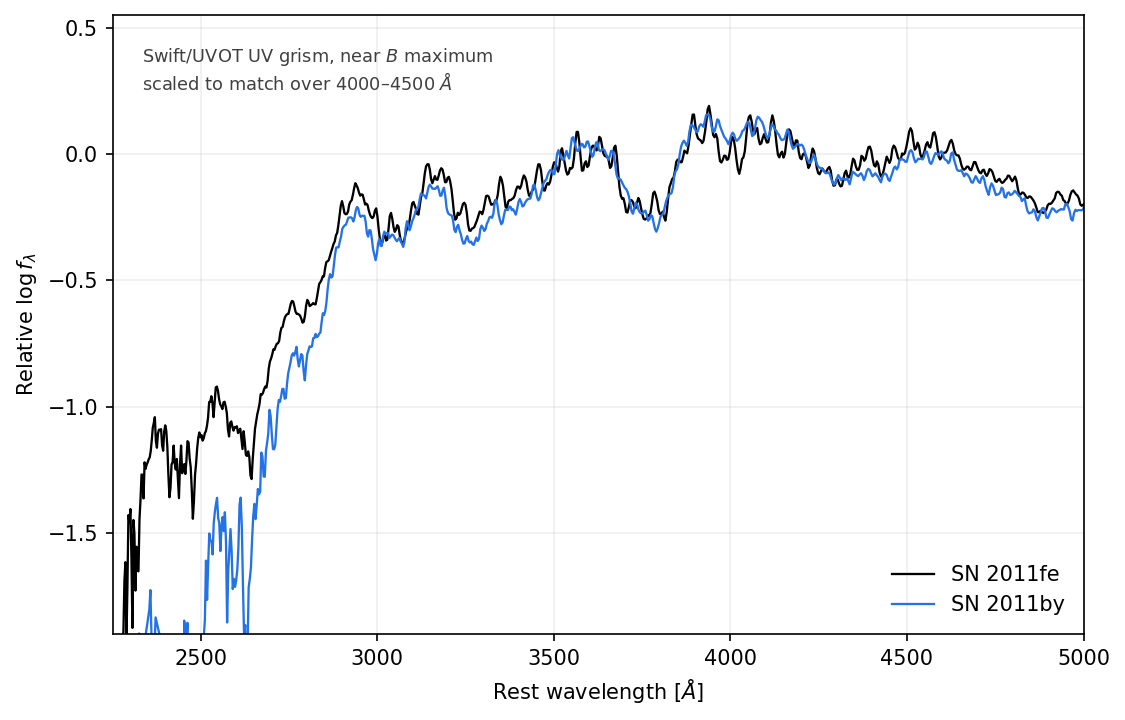
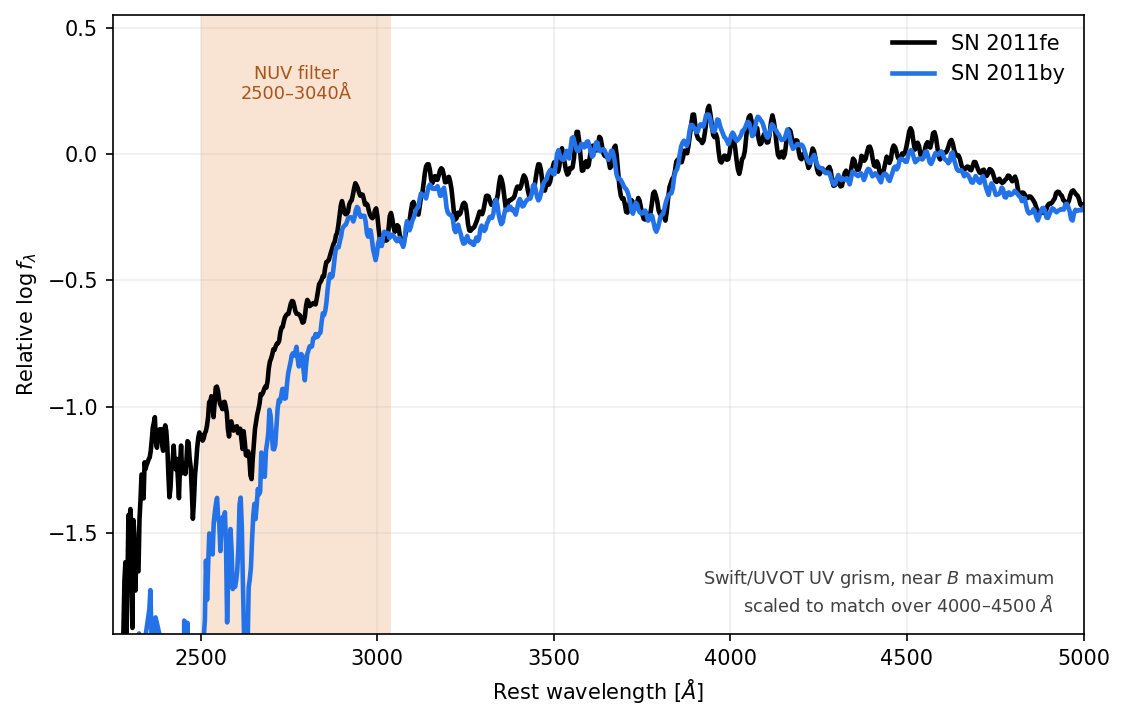
Expand ELG BAO/RSD analysis pipeline (ML redshifts, clustering estimators, MCMC/SBI); rewrite SN Ia/Strong-Lens/Lyman-alpha tone; add NUV filter band to SN Ia twin spectrum figure

diff --git a/docs/cosmology_35m_R1000_proposal.tex b/docs/cosmology_35m_R1000_proposal.tex
@@ -1127,10 +1127,11 @@ after marginalizing over galaxy bias in the ELG clustering model. The statistica
 \end{equation}
 so the wide tier sets the cosmological precision while the medium and deep tiers reduce redshift-failure and line-identification systematics.
 
-In configuration space the same information is measured from the two-dimensional galaxy correlation function,
+In configuration space the same information is measured from the two-dimensional galaxy correlation function, using the minimum-variance Landy--Szalay estimator \cite{landyszalay1993},
 \begin{equation}
   \xi(\sigma,\pi)=\frac{DD(\sigma,\pi)-2DR(\sigma,\pi)+RR(\sigma,\pi)}
   {RR(\sigma,\pi)},
+  \label{eq:xiestimator}
 \end{equation}
 where $\sigma$ is the transverse separation and $\pi$ is the line-of-sight separation. The BAO feature appears as an annular excess at $r_{\rm BAO}\simeq100$--$110\,h^{-1}$ Mpc. In real space this ring is nearly circular. In redshift space, peculiar velocities and coherent infall distort the contours, producing the anisotropy that is modeled jointly with the BAO scale. The transverse and radial BAO positions give
 \begin{equation}
@@ -1181,6 +1182,55 @@ Goal plus calibrated wedding-cake tiers & $\sim3\times10^6$ wide plus fainter ca
 \end{table}
 
 The science requirement is therefore not simply to detect many emission lines. It is to recover the BAO scale and the anisotropic RSD signal without imprinting a roll-angle, morphology, or overlap-dependent selection function. The baseline requirement is redshift purity $>98\%$ for the cosmology sample, catastrophic line-confusion rate $<1\%$, and a redshift-success model whose spatial variation is known well enough that the induced BAO-scale distance bias remains below $0.3\%$. These requirements will be verified by blinded image-level simulations and by repeated reductions of the same fields using only two of the three orientations with the third orientation held out as a validation data set.
+
+\subsection{Parameter-Estimation Pipeline: Redshifts to Cosmological Constraints}
+
+The redshift catalog and the clustering statistics defined above are not yet a cosmological measurement. Four further stages connect them to a posterior on $H_0r_d$, $\Omega_m$, $w_0$, $w_a$, and $S_8^{\rm grow}$. First, each deblended spectrum is converted into a redshift and a quality flag. Second, the redshift catalog is compressed into two-point clustering statistics in configuration and Fourier space. Third, a covariance matrix is built for those statistics. Fourth, a likelihood is constructed and sampled. This subsection defines each stage explicitly, extending the forecast of Table~\ref{tab:baoforecast} into an analysis plan. The End-to-End Validation exercise below runs this same plan on image-level mocks before it is applied to real survey data.
+
+\subsubsection{Redshift and Quality Classification}
+
+Each deblended one-dimensional spectrum from the scene-reconstruction pipeline (Section~\ref{sec:effres}) is redshifted by $\chi^2$ template fitting against a library of ELG templates spanning the H$\alpha$/[O\,III]/[O\,II] flux-ratio sequence, following the same template classification-and-redshift approach as the BOSS/eBOSS spectroscopic pipeline \cite{bolton2012}. A supervised deep-learning classifier runs in parallel, trained on labeled DESI and SDSS spectra together with the injected slitless simulations of the End-to-End validation suite below, in the spirit of QuasarNET, the convolutional network that locates line positions and classifies quasar spectra \cite{quasarnet2018}. The template fit supplies the redshift and its formal uncertainty. The classifier flags the catastrophic degeneracy that a $\chi^2$ grid search cannot resolve on its own, a single bright line mistaken for a different transition at a different redshift. It draws on the joint multi-line pattern, the morphology prior, and the redundancy across the three observed position angles already carried by the scene model of Eq.~\eqref{eq:scene}. The two outputs are combined into the redshift quality flag already defined in the science catalog (Section~\ref{sec:effres}), which sets the $>98\%$-purity cosmology sample required above.
+
+\subsubsection{Two-Point Clustering Estimators in Configuration and Fourier Space}
+
+The correlation function of Eq.~\eqref{eq:xiestimator} is measured with random catalogs that carry the survey mask, the overlap losses between the three position angles, and the redshift-dependent selection function. The same information is measured independently in Fourier space. The FKP-weighted density field
+\begin{equation}
+  F(\mathbf{r}) = w(\mathbf{r})\big[n_g(\mathbf{r})-\alpha_{\rm rand}\,n_s(\mathbf{r})\big],
+  \qquad
+  w(\mathbf{r}) = \frac{1}{1+n(\mathbf{r})P_0},
+  \label{eq:fkp}
+\end{equation}
+sets $n_g$ and $n_s$ as the galaxy and synthetic random densities and $\alpha_{\rm rand}$ as their relative normalization \cite{fkp1994}. It yields minimum-variance power-spectrum multipoles $P_0(k)$, $P_2(k)$, and $P_4(k)$ through the Yamamoto line-of-sight estimator implemented with fast Fourier transforms \cite{yamamoto2006,hand2017nbodykit}. The power-spectrum multipoles and the correlation-function wedges are fit for the same $(\alpha_\perp,\alpha_\parallel,\fsig)$ parameters. Therefore, agreement between the configuration-space and Fourier-space results is a direct internal test for residual systematics, including window-function mismodeling, redshift-failure gradients, and position-angle-dependent selection effects.
+
+\subsubsection{Covariance Matrices}\label{sec:covariance}
+
+The likelihood requires a covariance matrix for the compressed BAO/RSD parameters in each redshift bin. The baseline covariance is built from an ensemble of mock galaxy catalogs constructed on N-body simulations at the resolution and volume of Horizon Run 4 \cite{hr4}, populated with an ELG halo-occupation model tuned to the luminosity functions of Section~\ref{sec:elgdepth}, and passed through the same selection function, masks, and redshift-quality cuts as the real survey. A faster ensemble of approximate mocks, calibrated against the smaller set of full N-body realizations, supplies the larger number of realizations needed to invert a well-conditioned covariance matrix. Internal jackknife resampling of the survey footprint provides an independent, mock-free covariance estimate used to validate the mock-based one before it enters the likelihood.
+
+\subsubsection{Likelihood, MCMC, and Simulation-Based Inference}
+
+The baseline likelihood is Gaussian in the compressed parameters,
+\begin{equation}
+  -2\ln\mathcal{L} =
+  \big[\mathbf{p}_{\rm obs}-\mathbf{p}_{\rm model}(\theta)\big]^{T}
+  \mathbf{C}^{-1}
+  \big[\mathbf{p}_{\rm obs}-\mathbf{p}_{\rm model}(\theta)\big],
+  \label{eq:gausslike}
+\end{equation}
+with $\mathbf{p}=(\alpha_\perp,\alpha_\parallel,\fsig)$ per redshift bin, $\mathbf{C}$ the covariance of Section~\ref{sec:covariance}, and $\theta$ the cosmological and nuisance parameters. For the ELG-only fit the posterior is sampled with an affine-invariant ensemble MCMC sampler \cite{emcee2013}. For the joint fit that adds Planck/ACT CMB priors and the internal SN\,Ia and DSPL strong-lensing likelihoods of the companion programs above, the same posterior is sampled with the CosmoMC and Cobaya cosmological-parameter-estimation codes \cite{lewisbridle2002,torradolewis2021},
+\begin{equation}
+  \mathcal{P}(\theta\mid D) \;\propto\;
+  \mathcal{L}_{\rm ELG}(D_{\rm ELG}\mid\theta)\,
+  \mathcal{L}_{\rm SN}(D_{\rm SN}\mid\theta)\,
+  \mathcal{L}_{\rm lens}(D_{\rm lens}\mid\theta)\,
+  \mathcal{L}_{\rm CMB}(D_{\rm CMB}\mid\theta)\,
+  \Pi(\theta),
+  \label{eq:jointpost}
+\end{equation}
+recovering the joint constraint on $H_0$, $\Omega_m$, and $(w_0,w_a)$ already anticipated in the supernova program above. Where a Bayesian model comparison between flat $\Lambda$CDM and dynamic dark energy is required, the same likelihood is instead sampled with nested sampling \cite{polychord2015}, which returns the evidence directly rather than only the posterior. A joint, multi-probe nested-sampling run can require $10^6$--$10^7$ likelihood evaluations. Therefore, the nonlinear matter power spectrum entering Eq.~\eqref{eq:gausslike} is evaluated with a neural emulator trained on outputs from Boltzmann and perturbation-theory codes \cite{cosmopower2022,euclidemulator2021} rather than recomputed from scratch at every step, reducing each theory evaluation from a full nonlinear-power-spectrum calculation to a millisecond-scale forward pass.
+
+A second, likelihood-free channel cross-checks the Gaussian result. The same simulation-based inference machinery proposed for the strong-lensing hierarchical layer above trains a neural density estimator directly on the full mock $P(k,\mu)$ or $\xi(\sigma,\pi)$ realizations from the covariance ensemble \cite{cranmer2020}, learning the mapping from cosmological parameters to the clustering statistics without assuming a Gaussian likelihood or a hand-derived covariance. This channel is not required to reach the planning precision of Table~\ref{tab:baoforecast}. That forecast is scoped on the standard Gaussian pipeline above. The simulation-based channel instead lets the analysis use non-Gaussian small-scale information, for example the mildly nonlinear fingers-of-god signal, as an independent growth-rate cross-check rather than a term the Gaussian covariance must marginalize away.
+
+Before unblinding, a fixed but undisclosed offset is applied to $(\alpha_\perp,\alpha_\parallel,\fsig)$ in the catalog, following the blind-analysis practice of BOSS, eBOSS, and DESI. The offset is removed only after the pipeline, the covariance, and the likelihood have been frozen, extending the held-out-orientation validation of the observing strategy above into the cosmological analysis itself.
 
 \subsection{End-to-End Validation}
 
@@ -1264,7 +1314,7 @@ Taken together the two anchors give the program three things that a single field
 
 \subsection{Type Ia Supernovae}
 
-Type Ia supernovae (SNe Ia) are the most mature distance indicator in cosmology and the only one of the companion programs that interacts directly with the same dark-energy science driving the flagship ELG survey. $R=1000$ slitless spectroscopy is well matched to the broad spectral features of SNe Ia. The analysis can bin to $R\simeq300$--500 for classification, phase determination, dust and color estimation, and population diagnostics while retaining ample signal. The time-domain program should use repeated fields, not isolated single-object follow-up. The \fovsmall\ field is acceptable for a deep cadence field. The \fovlarge\ field enables multiple active supernovae per pointing and improves host-galaxy template efficiency. Beyond classification and host-redshift control, this section argues that the mission has a distinctive and underexploited capability. At the redshifts where it operates, its $0.36$--$3.0\,\mu$m band captures the \emph{rest-frame near-ultraviolet} of SNe Ia, where the dominant intrinsic-luminosity systematic of the distance ladder is encoded.
+Type Ia supernovae (SNe Ia) are the most mature distance indicator in cosmology and the only one of the companion programs that interacts directly with the same dark-energy science driving the flagship ELG survey. $R=1000$ slitless spectroscopy is well matched to the broad spectral features of SNe Ia. The analysis can bin to $R\simeq300$--500 for classification, phase determination, dust and color estimation, and population diagnostics while retaining ample signal. The time-domain program should use repeated fields, not isolated single-object follow-up. The \fovsmall\ field is acceptable for a deep cadence field. The \fovlarge\ field enables multiple active supernovae per pointing and improves host-galaxy template efficiency. Beyond classification and host-redshift control, the mission has an additional capability. At the redshifts where it operates, its $0.36$--$3.0\,\mu$m band captures the \emph{rest-frame near-ultraviolet} of SNe Ia, where the dominant intrinsic-luminosity systematic of the distance ladder is encoded.
 
 \subsubsection{Standardizable Candles and the Systematic Floor}
 
@@ -1290,7 +1340,7 @@ The cleanest demonstration comes from ``optical twins'', which are SN Ia pairs w
 \begin{figure}[tp]
 \centering
 \includegraphics[width=0.62\textwidth]{snia_uvtwins.png}
-\caption{Observed rest-frame UV--optical spectra of the optical twins SN\,2011fe (black) and SN\,2011by (blue) from the flux-calibrated Swift/UVOT UV-grism observations taken within half a day of $B$ maximum for each event, retrieved from the Open Supernova Catalog archive \cite{guillochon2017}, deredshifted and scaled to match over $4000$--$4500$\,\AA. The same instrument at the same phase compares the two directly. The optical region is nearly identical while the flux diverges strongly below $\sim3000$\,\AA, the near-ultraviolet metallicity signature of Foley \& Kirshner \cite{foleykirshner2013} predicted by the synthetic spectra of Lentz et~al.\ \cite{lentz2000}. The optical twin condition removes the light-curve-shape and color degrees of freedom, isolating an intrinsic-luminosity difference that is visible \emph{only} in the rest-frame NUV \cite{graham2015}.}
+\caption{Observed rest-frame UV--optical spectra of the optical twins SN\,2011fe (black) and SN\,2011by (blue) from the flux-calibrated Swift/UVOT UV-grism observations taken within half a day of $B$ maximum for each event, retrieved from the Open Supernova Catalog archive \cite{guillochon2017}, deredshifted and scaled to match over $4000$--$4500$\,\AA. The same instrument at the same phase compares the two directly. The shaded band marks the proposed rest-frame NUV filter ($2500$--$3040$\,\AA\ around the $2770$\,\AA\ diagnostic wavelength of Figure~\ref{fig:snuvlimit}). The optical region is nearly identical while the flux diverges strongly across that band, the near-ultraviolet metallicity signature of Foley \& Kirshner \cite{foleykirshner2013} predicted by the synthetic spectra of Lentz et~al.\ \cite{lentz2000}. The optical twin condition removes the light-curve-shape and color degrees of freedom, isolating an intrinsic-luminosity difference that is visible \emph{only} in the rest-frame NUV \cite{graham2015}.}
 \label{fig:uvtwins}
 \end{figure}
 
@@ -1335,12 +1385,12 @@ The iron-group diagnostic normally requires a dedicated space-ultraviolet facili
 \label{fig:nuvband}
 \end{figure}
 
-This diagnostic is comfortably within reach of the baseline spectrograph and is in fact \emph{not} resolution-limited. SN Ia features are intrinsically broad. Photospheric-phase P\,Cygni lines have velocity widths of $\sim$$10^4$\,\kms, equivalent to an effective resolution of only $R\sim c/v\sim30$. The rest-frame NUV iron-group signature is a still broader pseudo-continuum suppression rather than a set of narrow lines. The native $R=1000$ therefore over-resolves the relevant structure by more than an order of magnitude. The analysis can bin down to $R\simeq100$--300 to accumulate signal-to-noise without erasing any diagnostic information. The limiting factor for $\Delta\mathrm{NUV}$ and $\theta_{\rm Fe}$ is blue-end signal-to-noise at the redshifted iron-blanketing wavelengths, not spectral resolution. The measurement is therefore feasible with the as-designed instrument and is governed by the same exposure-time reach shown in Figure~\ref{fig:snreach}. A single multi-roll slitless spectrum binned to $R\simeq300$--500 therefore records both the optical light-curve parameters and the rest-frame NUV iron-group color in one observation, enabling a subclass-aware standardization,
+This diagnostic is within reach of the baseline spectrograph and is \emph{not} resolution-limited. SN Ia features are intrinsically broad. Photospheric-phase P\,Cygni lines have velocity widths of $\sim$$10^4$\,\kms, equivalent to an effective resolution of only $R\sim c/v\sim30$. The rest-frame NUV iron-group signature is a still broader pseudo-continuum suppression rather than a set of narrow lines. The native $R=1000$ therefore over-resolves the relevant structure by more than an order of magnitude. The analysis can bin down to $R\simeq100$--300 to accumulate signal-to-noise without erasing any diagnostic information. The limiting factor for $\Delta\mathrm{NUV}$ and $\theta_{\rm Fe}$ is blue-end signal-to-noise at the redshifted iron-blanketing wavelengths, not spectral resolution. The measurement is therefore feasible with the as-designed instrument and is governed by the same exposure-time reach shown in Figure~\ref{fig:snreach}. A single multi-roll slitless spectrum binned to $R\simeq300$--500 therefore records both the optical light-curve parameters and the rest-frame NUV iron-group color in one observation, enabling a subclass-aware standardization,
 \begin{equation}
 M_B = M_0 + \alpha\,(\Delta m_{15}-1.1) + \beta\,(B-V) + \gamma\,\Delta\mathrm{NUV} + \delta\,\theta_{\rm Fe},
 \label{eq:nuvstd}
 \end{equation}
-where $\Delta\mathrm{NUV}$ is the rest-frame NUV color excess and $\theta_{\rm Fe}$ parameterizes the iron-group blanketing inferred from the spectrum. Adding these terms targets a reduction of the Hubble residual scatter from $\sigma\simeq0.12$\,mag toward $\sigma\lesssim0.08$\,mag, an $\sim30\%$ gain in per-object distance precision. More importantly, it lets the program test directly whether progenitor-metallicity evolution imprints a redshift-dependent standardization bias. Because the same explosion physics that drives the NUV divergence also sets the host-mass step, the spectroscopic $\theta_{\rm Fe}$ offers a physical replacement for the purely empirical host corrections used today.
+where $\Delta\mathrm{NUV}$ is the rest-frame NUV color excess and $\theta_{\rm Fe}$ parameterizes the iron-group blanketing inferred from the spectrum. Adding these terms targets a reduction of the Hubble residual scatter from $\sigma\simeq0.12$\,mag toward $\sigma\lesssim0.08$\,mag, an $\sim30\%$ gain in per-object distance precision. It also lets the program test directly whether progenitor-metallicity evolution imprints a redshift-dependent standardization bias. Because the same explosion physics that drives the NUV divergence also sets the host-mass step, the spectroscopic $\theta_{\rm Fe}$ offers a physical replacement for the purely empirical host corrections used today.
 
 \subsubsection{Observing Strategy and Survey Reach}
 
@@ -1443,13 +1493,13 @@ The second is the dark-energy equation of state. Unrecognized astrophysical syst
 \label{fig:sniacosmo}
 \end{figure}
 
-In summary, the SN Ia program is more than a classification-and-redshift service. By reaching the rest-frame NUV of $0.5\lesssim z\lesssim1.5$ supernovae it can diagnose the iron-group physics that sets the dominant intrinsic-luminosity systematic, convert the empirical host-mass step into a physical correction, and feed a subclass-homogeneous high-redshift distance set into the same dark-energy analysis as the flagship BAO/RSD survey.
+The SN Ia program therefore extends beyond classification and redshift service. By reaching the rest-frame NUV of $0.5\lesssim z\lesssim1.5$ supernovae it can diagnose the iron-group physics that sets the dominant intrinsic-luminosity systematic, convert the empirical host-mass step into a physical correction, and feed a subclass-homogeneous high-redshift distance set into the same dark-energy analysis as the flagship BAO/RSD survey.
 
 \subsection{Strong-Lens Cosmography}
 
-Strong gravitational lensing is a purely geometric cosmological probe. The deflection of light by a foreground mass depends on ratios of angular-diameter distances to the lens and the source. Hence, a measured lens configuration constrains the expansion history independently of, and with different systematics from, the BAO and supernova programs above. This makes it an attractive cross-check on $H_0$ and the dark-energy equation of state. The challenge is that the cosmological signal is entangled with the lens mass distribution through three well-known systematics. First, the \emph{mass-sheet degeneracy} (MSD), under which a rescaling of the convergence plus a uniform sheet leaves all observables except the absolute time delay unchanged. Second, the \emph{mass--anisotropy degeneracy} in the stellar dynamics used to break the MSD. Third, the \emph{external convergence} $\kappa_{\rm ext}$ from mass along the line of sight. A credible program is therefore defined by how well it controls these three terms, not by how many lenses it collects.
+Strong gravitational lensing is a purely geometric cosmological probe. The deflection of light by a foreground mass depends on ratios of angular-diameter distances to the lens and the source. Hence, a measured lens configuration constrains the expansion history independently of, and with different systematics from, the BAO and supernova programs above. It therefore provides an independent check on $H_0$ and the dark-energy equation of state. The cosmological signal is entangled with the lens mass distribution through three well-known systematics. First, the \emph{mass-sheet degeneracy} (MSD), under which a rescaling of the convergence plus a uniform sheet leaves all observables except the absolute time delay unchanged. Second, the \emph{mass--anisotropy degeneracy} in the stellar dynamics used to break the MSD. Third, the \emph{external convergence} $\kappa_{\rm ext}$ from mass along the line of sight. A credible program is therefore defined by how well it controls these three terms, not by how many lenses it collects.
 
-This mission is well suited to that task. Importantly, it does not rely primarily on its spectrograph. The slitless design carries diffraction-limited, photometrically stable direct imaging ($\sim$0.1\,arcsec at optical wavelengths) that is the natural data product for lens finding and for reconstructing Einstein rings and arcs. Spectroscopy is a powerful \emph{complement}. It supplies lens and source redshifts, deflector velocity dispersions, and line-of-sight galaxy redshifts, but it is not a prerequisite for the imaging-based core of the program. The strategy below therefore treats imaging $+$ machine learning as the engine with spectroscopy and (where useful) weak-lensing shapes as degeneracy-breaking add-ons. The science is timely because the next-generation imaging surveys will deliver lenses in unprecedented numbers. These include of order $1.7\times10^5$ discoverable galaxy--galaxy lenses in \textit{Euclid} and $1.2\times10^5$ in Rubin/LSST \cite{collett2015}, $\sim$$1.7\times10^4$ in the \textit{Roman} High-Latitude Survey \cite{weiner2020}, with \textit{Euclid} already publishing hundreds of space-based candidates over its first 63\,\degti\ and projecting $>10^5$ for the full survey \cite{walmsley2025}. Meanwhile, redshift confirmation and per-lens mass modeling remain the rate-limiting steps \cite{shu2025}.
+This mission does not rely primarily on its spectrograph for that task. The slitless design carries diffraction-limited, photometrically stable direct imaging ($\sim$0.1\,arcsec at optical wavelengths) that is the natural data product for lens finding and for reconstructing Einstein rings and arcs. Spectroscopy is a \emph{complement}. It supplies lens and source redshifts, deflector velocity dispersions, and line-of-sight galaxy redshifts, but it is not a prerequisite for the imaging-based core of the program. The strategy below therefore treats imaging $+$ machine learning as the engine with spectroscopy and (where useful) weak-lensing shapes as degeneracy-breaking add-ons. The next-generation imaging surveys will soon deliver lenses in large numbers. These include of order $1.7\times10^5$ discoverable galaxy--galaxy lenses in \textit{Euclid} and $1.2\times10^5$ in Rubin/LSST \cite{collett2015}, $\sim$$1.7\times10^4$ in the \textit{Roman} High-Latitude Survey \cite{weiner2020}, with \textit{Euclid} already publishing hundreds of space-based candidates over its first 63\,\degti\ and projecting $>10^5$ for the full survey \cite{walmsley2025}. Meanwhile, redshift confirmation and per-lens mass modeling remain the rate-limiting steps \cite{shu2025}.
 
 \subsubsection{Primary Probe: Double-Source-Plane Lenses for \texorpdfstring{$w$}{w} and \texorpdfstring{$\Omega_m$}{Omega_m}}
 
@@ -1460,7 +1510,7 @@ The cleanest strong-lensing cosmology available to a spectroscopic-imaging missi
 \end{equation}
 where $D_{s}$ and $D_{ds}$ are angular-diameter distances from observer and from deflector to each source. Because $\beta$ is a ratio of distances at a common lens, it is essentially \emph{independent of $H_0$} and of the absolute mass normalization and depends only on $\Omega_m$ and the dark-energy parameters. The archetype, the ``Jackpot'' lens SDSS\,J0946$+$1006, yields $\beta^{-1}=1.404\pm0.016$ and, combined with CMB priors in a flat $w$CDM model, $w=-1.17\pm0.20$, a $\sim$30\% improvement over the CMB alone \cite{collettauger2014}. Forecasts show that a handful of well-modeled DSPLs reach $\sigma(w)\approx0.15$ \cite{collett2012}. Recent AGEL-survey systems have begun to realize this, improving the $w$ precision by $\sim$30--40\% over CMB-only when combined \cite{sahu2025,bowden2025}.
 
-DSPLs are rare and were historically found by accident, because identifying \emph{two} source redshifts behind one lens is hard from imaging alone. This is precisely where the mission's combination of capabilities is decisive. The stable imaging resolves the two concentric ring/arc systems and measures their radii, while the slitless spectroscopy delivers the two source redshifts and the lens redshift in the same observation, turning serendipitous discoveries into a systematically assembled DSPL cosmology sample. We adopt DSPL distance-ratio cosmography as the primary strong-lensing science goal because its dominant requirement, multiple secure source-plane redshifts, is exactly the measurement a wide-field spectroscopic survey makes naturally and because the $\beta$ ratio sidesteps both the $H_0$ calibration and much of the MSD that complicate time-delay work.
+DSPLs are rare and were historically found by accident, because identifying \emph{two} source redshifts behind one lens is hard from imaging alone. This is where the mission's combination of imaging and spectroscopy matters. The stable imaging resolves the two concentric ring/arc systems and measures their radii, while the slitless spectroscopy delivers the two source redshifts and the lens redshift in the same observation, turning serendipitous discoveries into a systematically assembled DSPL cosmology sample. We adopt DSPL distance-ratio cosmography as the primary strong-lensing science goal because its dominant requirement, multiple secure source-plane redshifts, is exactly the measurement a wide-field spectroscopic survey makes naturally and because the $\beta$ ratio sidesteps both the $H_0$ calibration and much of the MSD that complicate time-delay work.
 
 \begin{figure}[tp]
 \centering
@@ -1508,15 +1558,15 @@ DSPLs are rare and were historically found by accident, because identifying \emp
 
 \subsubsection{Mass-Density Profiles and the Degeneracy-Breaking Program}
 
-The total mass-density profile of massive early-type lens galaxies is remarkably close to isothermal, $\rho\propto r^{-\gamma'}$ with $\gamma'\simeq2$. Measurements give $\langle\gamma'\rangle=2.085^{+0.025}_{-0.018}$ from SLACS dynamics \cite{koopmans2009}, $2.078\pm0.027$ with intrinsic scatter $0.16$ from the SLACS lensing$+$dynamics sample \cite{auger2010}, and $2.075^{+0.023}_{-0.024}$ from extended-source modeling \cite{etherington2023}. The slope evolves. At fixed mass and size, $\partial\gamma'/\partial z=-0.31\pm0.10$ \cite{sonnenfeld2013}. Measuring $\gamma'(z,M_\ast)$ over a large, homogeneously selected sample is valuable in two ways. As astrophysics it traces the assembly history of the most massive galaxies through the competition between dissipative growth and dry merging. As cosmology it supplies the very priors, the density slope and the stellar orbital anisotropy, that time-delay cosmography needs to break the MSD. The recent shift in that field toward hierarchical inference of the density profile across the lens population is exactly a demand for the measurement this mission can mass-produce \cite{birrer2020}.
+The total mass-density profile of massive early-type lens galaxies is close to isothermal, $\rho\propto r^{-\gamma'}$ with $\gamma'\simeq2$. Measurements give $\langle\gamma'\rangle=2.085^{+0.025}_{-0.018}$ from SLACS dynamics \cite{koopmans2009}, $2.078\pm0.027$ with intrinsic scatter $0.16$ from the SLACS lensing$+$dynamics sample \cite{auger2010}, and $2.075^{+0.023}_{-0.024}$ from extended-source modeling \cite{etherington2023}. The slope evolves. At fixed mass and size, $\partial\gamma'/\partial z=-0.31\pm0.10$ \cite{sonnenfeld2013}. Measuring $\gamma'(z,M_\ast)$ over a large, homogeneously selected sample is valuable in two ways. As astrophysics it traces the assembly history of the most massive galaxies through the competition between dissipative growth and dry merging. As cosmology it supplies the very priors, the density slope and the stellar orbital anisotropy, that time-delay cosmography needs to break the MSD. The recent shift in that field toward hierarchical inference of the density profile across the lens population is exactly a demand for the measurement this mission can mass-produce \cite{birrer2020}.
 
 The method combines two mission data products. The diffraction-limited imaging constrains the Einstein radius $\theta_E$ (hence the projected mass inside it) and, through full extended-source reconstruction of the ring, the radial slope $\gamma'$. The slitless spectroscopy adds the deflector stellar velocity dispersion $\sigma$. Here the native $R=1000$ ($\sim$300 \kms) resolution is a genuine limitation for low-dispersion systems, but lens-selected deflectors are massive ellipticals with $\sigma\gtrsim250$ \kms, for which an \emph{aperture-integrated} dispersion is recoverable from the slitless spectrum with careful template fitting and morphology deconvolution across the three roll angles. We therefore scope the dynamical measurement as integrated (not spatially resolved) $\sigma$, used statistically over the population rather than for per-lens $H_0$. Spatially resolved kinematics, where required for individual flagship systems, are deferred to external IFU facilities \cite{tdcosmo2025}.
 
 \subsubsection{Supporting Role in Time-Delay Cosmography}
 
-Time-delay cosmography measures $H_0$ directly from the relative arrival times of multiply imaged variable sources. The H0LiCOW program reached $H_0=73.3^{+1.7}_{-1.8}$ \kms\,Mpc$^{-1}$ (2.4\%) from six lensed quasars under power-law/composite mass models \cite{wong2020}. Relaxing the mass model to admit full mass-sheet freedom inflates the uncertainty to $\sim$8\% \cite{birrer2020}. The most recent TDCOSMO analysis, incorporating integrated and spatially resolved stellar kinematics, gives $H_0=71.6^{+3.9}_{-3.3}$ \kms\,Mpc$^{-1}$ \cite{birrer2025}. This mission will not build its own competitive time-delay $H_0$ measurement, which requires dedicated monitoring cadence and resolved kinematics, but it is a powerful \emph{force multiplier} for the lensed quasars and supernovae that Rubin and \textit{Roman} will discover.
+Time-delay cosmography measures $H_0$ directly from the relative arrival times of multiply imaged variable sources. The H0LiCOW program reached $H_0=73.3^{+1.7}_{-1.8}$ \kms\,Mpc$^{-1}$ (2.4\%) from six lensed quasars under power-law/composite mass models \cite{wong2020}. Relaxing the mass model to admit full mass-sheet freedom inflates the uncertainty to $\sim$8\% \cite{birrer2020}. The most recent TDCOSMO analysis, incorporating integrated and spatially resolved stellar kinematics, gives $H_0=71.6^{+3.9}_{-3.3}$ \kms\,Mpc$^{-1}$ \cite{birrer2025}. This mission will not build its own competitive time-delay $H_0$ measurement, which requires dedicated monitoring cadence and resolved kinematics, but it is a \emph{force multiplier} for the lensed quasars and supernovae that Rubin and \textit{Roman} will discover.
 
-Two contributions are decisive. First, spectroscopy delivers the lens and source redshifts and the deflector dispersion that every time-delay analysis requires. Second, and less appreciated, the wide field captures the redshifts of the faint galaxies along each sight line, which set the external convergence $\kappa_{\rm ext}$. Since $H_0\propto(1-\kappa_{\rm ext})$, this term is a leading systematic. It reached $\kappa_{\rm ext}=0.10^{+0.08}_{-0.05}$ and dominated the error budget for B1608$+$656 \cite{suyu2010} and is typically a few percent with a $\sim$2.5\% uncertainty controlled by weighted galaxy counts and spectroscopy of the field \cite{rusu2017,wells2023}. Dense, spatially complete redshifts of line-of-sight galaxies, a natural by-product of the flagship slitless survey overlapping time-delay fields, directly tighten $\kappa_{\rm ext}$ and therefore $H_0$ \cite{greene2013}.
+Two contributions matter most. First, spectroscopy delivers the lens and source redshifts and the deflector dispersion that every time-delay analysis requires. Second, and less appreciated, the wide field captures the redshifts of the faint galaxies along each sight line, which set the external convergence $\kappa_{\rm ext}$. Since $H_0\propto(1-\kappa_{\rm ext})$, this term is a leading systematic. It reached $\kappa_{\rm ext}=0.10^{+0.08}_{-0.05}$ and dominated the error budget for B1608$+$656 \cite{suyu2010} and is typically a few percent with a $\sim$2.5\% uncertainty controlled by weighted galaxy counts and spectroscopy of the field \cite{rusu2017,wells2023}. Dense, spatially complete redshifts of line-of-sight galaxies, a natural by-product of the flagship slitless survey overlapping time-delay fields, directly tighten $\kappa_{\rm ext}$ and therefore $H_0$ \cite{greene2013}.
 
 \subsubsection{An AI Pipeline for Finding and Modeling at Scale}
 
@@ -1566,9 +1616,9 @@ Cosmic-shear weak lensing is not a primary product of this mission, because comp
 
 In scope, the strong-lensing program is a Years~2--5 effort that rides on the flagship survey's imaging and on fields shared with external time-delay campaigns, supplemented by targeted spectroscopy ($3\times2$--$3\times4$ hr in three roll angles) of the highest-value deflectors and all DSPL candidates. The deliverables are a spectroscopically confirmed lens and DSPL catalog with machine-learning mass models, a population measurement of $\gamma'(z,M_\ast)$, $\kappa_{\rm ext}$ and redshift support for external time-delay $H_0$ work, and a DSPL-based constraint on $(\Omega_m,w)$ that is independent of the mission's BAO and supernova results. This is a substantive, systematics-aware cosmology program built on the mission's real strengths, namely stable imaging, wide-field multiplexed spectroscopy, and automated inference, rather than a single-object $H_0$ claim.
 
-\subsection{Lyman-\texorpdfstring{$\alpha$}{alpha} Forest}
+\subsection{Lyman-\texorpdfstring{$\alpha$}{alpha} Forest and Absorption Systems}
 
-The Lyman-$\alpha$ forest is the dense set of H\,\textsc{i} absorption lines imprinted on the spectrum of a background source by neutral hydrogen in the intergalactic medium (IGM) along the line of sight. Each absorber records the density, temperature, and peculiar velocity of diffuse gas at the redshift where Ly$\alpha$ ($\lambda_0=1215.67$\,\AA) comes into resonance. The forest is therefore a continuous tracer of large-scale structure across $2\lesssim z\lesssim4$, where few other tracers exist, and it underpins several distinct cosmological measurements. This section first sets out what the forest delivers in principle. It then computes quantitatively what the proposed $R=1000$ slitless spectrograph can actually measure and finally defines a program matched to that capability.
+The Lyman-$\alpha$ forest is the dense set of H\,\textsc{i} absorption lines imprinted on the spectrum of a background source by neutral hydrogen in the intergalactic medium (IGM) along the line of sight. Each absorber records the density, temperature, and peculiar velocity of diffuse gas at the redshift where Ly$\alpha$ ($\lambda_0=1215.67$\,\AA) comes into resonance. The forest is therefore a continuous tracer of large-scale structure across $2\lesssim z\lesssim4$, where few other tracers exist, and it underpins several distinct cosmological measurements. At higher column density the same absorbers steepen into Lyman-limit systems and damped Ly$\alpha$ absorbers, discrete tracers of circumgalactic and interstellar gas that this section surveys alongside the diffuse forest. We first set out what the forest delivers in principle, then quantify what the proposed $R=1000$ slitless spectrograph can measure, and define a program matched to that capability.
 
 \subsubsection{The Forest as a Cosmological Probe}
 
@@ -1578,7 +1628,7 @@ The second measurement is the thermal history of the IGM, encoded in the tempera
 
 \subsubsection{Spectral Resolution and Detectable H\,I Columns}
 
-The interpretation of the forest depends critically on spectral resolution. A slitless mission must be honest about its limits here. Individual forest absorbers have Doppler parameters of order $b\simeq20$--$30$\,km\,s$^{-1}$, set by the IGM temperature and turbulence \cite{rudie2012,rudie2013}. Resolving such a line requires a velocity resolution well below its width, in practice $R\gtrsim30{,}000$--$40{,}000$ as delivered by echelle spectrographs. The proposed instrument has $R=1000$, a resolution element of $c/R=300$\,km\,s$^{-1}$, roughly ten times broader than a single absorber. At the line density of the $z\simeq2.5$ forest every resolution element contains many blended lines. Hence, the spectrograph cannot decompose the forest into individual Voigt components.
+The interpretation of the forest depends critically on spectral resolution. A slitless mission has clear limits here. Individual forest absorbers have Doppler parameters of order $b\simeq20$--$30$\,km\,s$^{-1}$, set by the IGM temperature and turbulence \cite{rudie2012,rudie2013}. Resolving such a line requires a velocity resolution well below its width, in practice $R\gtrsim30{,}000$--$40{,}000$ as delivered by echelle spectrographs. The proposed instrument has $R=1000$, a resolution element of $c/R=300$\,km\,s$^{-1}$, roughly ten times broader than a single absorber. At the line density of the $z\simeq2.5$ forest every resolution element contains many blended lines. Hence, the spectrograph cannot decompose the forest into individual Voigt components.
 
 What it can do is detect absorption above a flux-decrement threshold. We quantify this with the Ly$\alpha$ curve of growth, computed by integrating a Voigt profile to obtain the rest-frame equivalent width $W_\lambda$ as a function of the H\,\textsc{i} column density $N_{\rm H\,I}$ (Figure~\ref{fig:lyathreshold}, left). For an unresolved line, the minimum equivalent width detectable at significance $N_\sigma$ in a spectrum of resolution $R$ and continuum signal-to-noise ${\rm S/N}$ per resolution element is
 \begin{equation}
@@ -1618,7 +1668,7 @@ Two regimes therefore remain robust at $R=1000$. The diffuse forest is measured 
 
 \subsubsection{Tomographic Mapping with the Wide Survey}
 
-The statistical forest is well suited to tomographic mapping, which needs many adjacent sightlines at moderate signal-to-noise rather than high resolution on a few. The achievable map resolution is set by the transverse sightline separation, which in turn depends on the surface density of usable background sources. At $z\simeq2.3$ the density of background galaxies and quasars usable as Ly$\alpha$ backlights rises steeply with depth from $\sim$360 to $\sim$3300\,deg$^{-2}$ between $g=24.0$ and $g=25.0$, giving mean transverse separations of $\sim3.6$ down to $\sim1.2\,h^{-1}$\,Mpc \cite{lee2014tomo}. CLAMATO realized this at $2.05<z<2.55$ with 240 sources over 0.157\,deg$^2$, a mean separation of $2.37\,h^{-1}$\,Mpc, and a map resolution of $2.5\,h^{-1}$\,Mpc (Figure~\ref{fig:lya3dexternal}) \cite{lee2018clamato}. LATIS extended this to 1.7\,deg$^2$ with about 3800 galaxy spectra at comparable resolution \cite{newman2020latis}.
+The statistical forest matches the requirements of tomographic mapping, which needs many adjacent sightlines at moderate signal-to-noise rather than high resolution on a few. The achievable map resolution is set by the transverse sightline separation, which in turn depends on the surface density of usable background sources. At $z\simeq2.3$ the density of background galaxies and quasars usable as Ly$\alpha$ backlights rises steeply with depth from $\sim$360 to $\sim$3300\,deg$^{-2}$ between $g=24.0$ and $g=25.0$, giving mean transverse separations of $\sim3.6$ down to $\sim1.2\,h^{-1}$\,Mpc \cite{lee2014tomo}. CLAMATO realized this at $2.05<z<2.55$ with 240 sources over 0.157\,deg$^2$, a mean separation of $2.37\,h^{-1}$\,Mpc, and a map resolution of $2.5\,h^{-1}$\,Mpc (Figure~\ref{fig:lya3dexternal}) \cite{lee2018clamato}. LATIS extended this to 1.7\,deg$^2$ with about 3800 galaxy spectra at comparable resolution \cite{newman2020latis}.
 
 \begin{figure}[tp]
 \centering
@@ -2302,6 +2352,83 @@ J. Kim, C. Park, B. L'Huillier, and S. E. Hong,
 ``Horizon Run 4 Simulation: Coupled Evolution of Galaxies and Large-scale Structures of the Universe,''
 \emph{Journal of Korean Astronomical Society}, 48, 213, 2015.
 \url{https://arxiv.org/abs/1508.05107}
+
+\bibitem{landyszalay1993}
+S. D. Landy and A. S. Szalay,
+``Bias and variance of angular correlation functions,''
+\emph{The Astrophysical Journal}, 412, 64, 1993.
+
+\bibitem{fkp1994}
+H. A. Feldman, N. Kaiser, and J. A. Peacock,
+``Power-spectrum analysis of three-dimensional redshift surveys,''
+\emph{The Astrophysical Journal}, 426, 23, 1994.
+\url{https://arxiv.org/abs/astro-ph/9304022}
+
+\bibitem{yamamoto2006}
+K. Yamamoto, M. Nakamichi, A. Kamino, B. A. Bassett, and H. Nishioka,
+``A Measurement of the Quadrupole Power Spectrum in the Clustering of the 2dF QSO Survey,''
+\emph{Publications of the Astronomical Society of Japan}, 58, 93, 2006.
+\url{https://arxiv.org/abs/astro-ph/0505115}
+
+\bibitem{hand2017nbodykit}
+N. Hand, Y. Feng, Y. Li, U. Seljak, Z. Slepian, and F. Beutler,
+``nbodykit: an open-source, massively parallel toolkit for large-scale structure,''
+\emph{The Astronomical Journal}, 156, 160, 2018.
+\url{https://arxiv.org/abs/1712.05834}
+
+\bibitem{bolton2012}
+A. S. Bolton et al.,
+``Spectral Classification and Redshift Measurement for the SDSS-III Baryon Oscillation Spectroscopic Survey,''
+\emph{The Astronomical Journal}, 144, 144, 2012.
+\url{https://arxiv.org/abs/1207.7326}
+
+\bibitem{quasarnet2018}
+N. Busca and C. Balland,
+``QuasarNET: Human-level spectral classification and redshifting with Deep Neural Networks,''
+\emph{arXiv:1808.09955}, 2018.
+\url{https://arxiv.org/abs/1808.09955}
+
+\bibitem{emcee2013}
+D. Foreman-Mackey, D. W. Hogg, D. Lang, and J. Goodman,
+``emcee: The MCMC Hammer,''
+\emph{Publications of the Astronomical Society of the Pacific}, 125, 306, 2013.
+\url{https://arxiv.org/abs/1202.3665}
+
+\bibitem{lewisbridle2002}
+A. Lewis and S. Bridle,
+``Cosmological parameter estimation using Monte Carlo Markov chains,''
+\emph{Physical Review D}, 66, 103511, 2002.
+\url{https://arxiv.org/abs/astro-ph/0205436}
+
+\bibitem{torradolewis2021}
+J. Torrado and A. Lewis,
+``Cobaya: Bayesian analysis in cosmology,''
+\emph{Journal of Cosmology and Astroparticle Physics}, 2021, 057, 2021.
+\url{https://arxiv.org/abs/2005.05290}
+
+\bibitem{polychord2015}
+W. J. Handley, M. P. Hobson, and A. N. Lasenby,
+``POLYCHORD: next-generation nested sampling,''
+\emph{Monthly Notices of the Royal Astronomical Society}, 453, 4384, 2015.
+\url{https://arxiv.org/abs/1506.00171}
+
+\bibitem{cosmopower2022}
+A. Spurio Mancini, D. Piras, J. Alsing, B. Joachimi, and M. P. Hobson,
+``CosmoPower: emulating cosmological power spectra for accelerated Bayesian inference from next-generation surveys,''
+\emph{Monthly Notices of the Royal Astronomical Society}, 511, 1771, 2022.
+\url{https://arxiv.org/abs/2106.03846}
+
+\bibitem{euclidemulator2021}
+M. Knabenhans et al.,
+``Euclid preparation: IX. EuclidEmulator2 -- power spectrum emulation with massive neutrinos and self-consistent dark energy perturbations,''
+\emph{Monthly Notices of the Royal Astronomical Society}, 505, 2840, 2021.
+\url{https://arxiv.org/abs/2010.11288}
+
+\bibitem{cranmer2020}
+K. Cranmer, J. Brehmer, and G. Louppe,
+``The frontier of simulation-based inference,''
+\emph{Proceedings of the National Academy of Sciences}, 117, 30055, 2020.
+\url{https://arxiv.org/abs/1911.01429}
 
 \bibitem{raichoor2020}
 A. Raichoor et al.,
